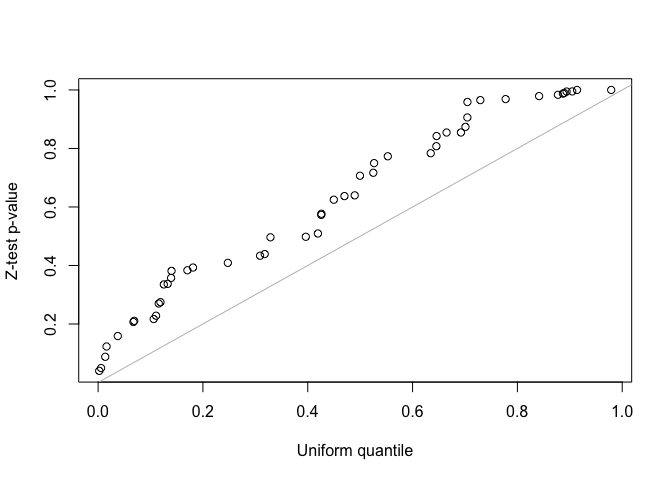
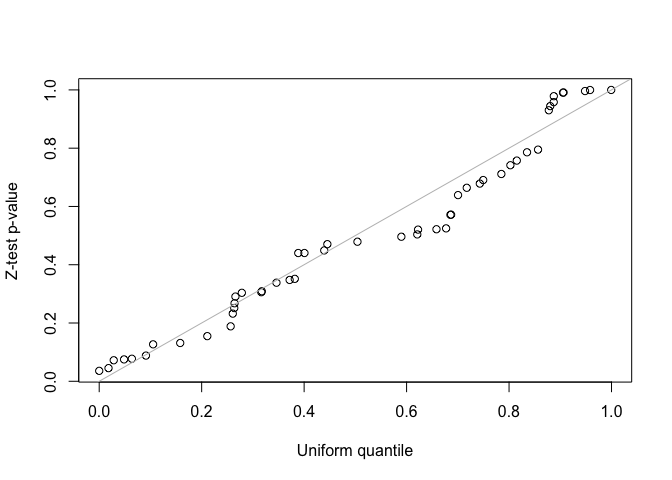
Initial commit

diff --git a/README.md b/README.md
@@ -201,15 +201,12 @@ with two-component random effects.
 
 set.seed(2508)
 n <- nrow(metadata)
-metadata$time <- rnorm(n, 5) * sample(1:2, n, replace = TRUE)
+metadata$time <- sample(1:2, n, replace = TRUE)
 Z <- model.matrix(~0 + sam + sam:time, data = metadata)
 d <- c(ncol(Z)/2, ncol(Z)/2)  #dimension
 
 ## Fit the LMM with Two-component random effects.
 fit2 <- lmmfit(Y, X, Z, d = d, method = "ML")
-#> Warning in lmm(XX, XY, ZX, ZY, ZZ, Ynorm = Ynorm, n = n, d = d, theta0 =
-#> theta0, : 1 features (the rows of Y) for which fitting LMM doesn't converge
-#> with abs(dlogL) > epsilon, 1e-05
 ```
 
 ### Testing variance components
